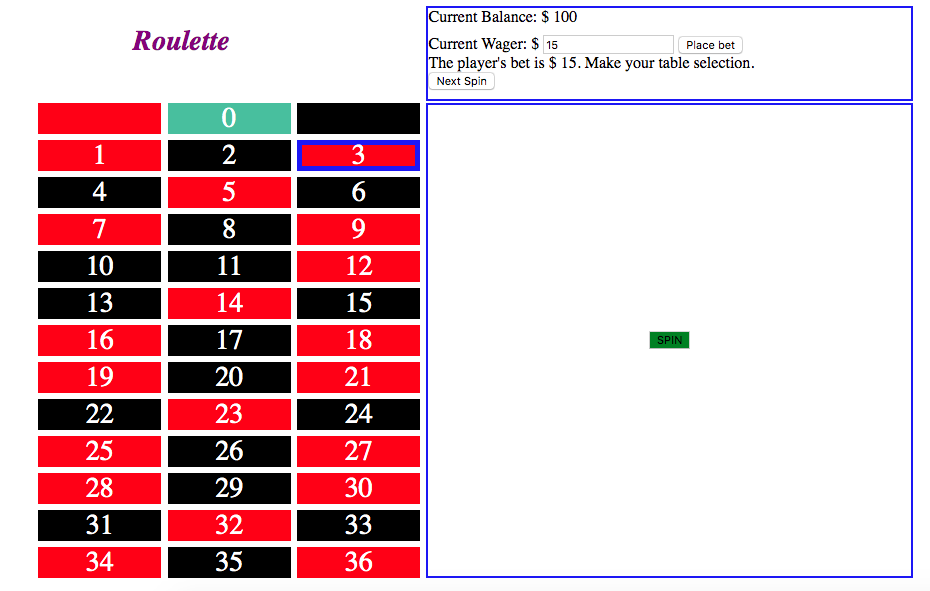
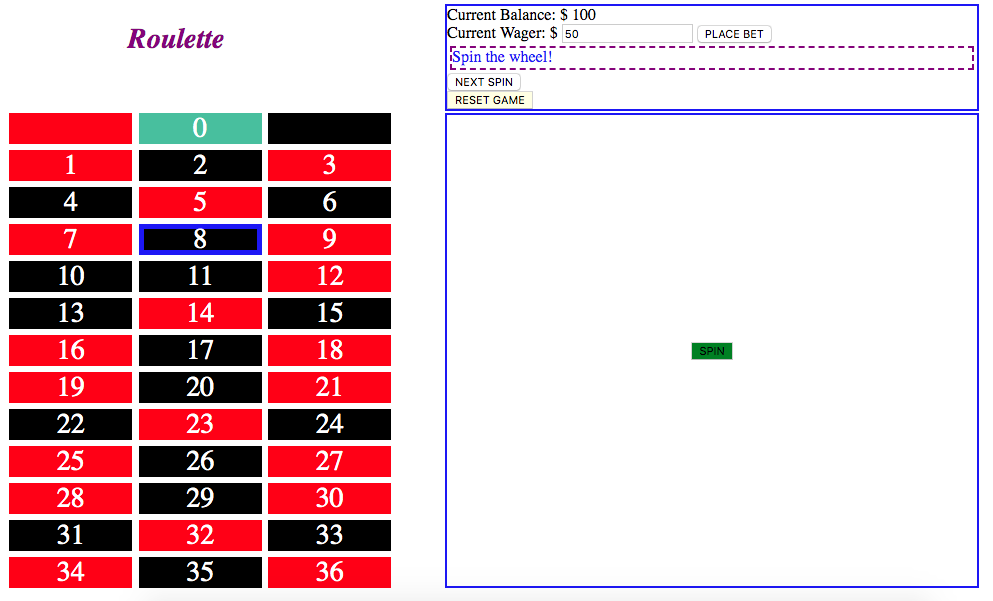
updates screenshots

Changed region(s): [[0.0, 0.0, 0.9978, 1.0], [0.1247, 0.0305, 0.2495, 0.0914], [0.686, 0.5482, 0.7484, 0.6091]]

diff --git a/css/main.css b/css/main.css
@@ -66,6 +66,7 @@ background-color: red;
   align-items: center;
   border: 2px solid blue;
   color: black;
+  height: 475px;
 }
 
 .bank {

diff --git a/README.md b/README.md
@@ -8,35 +8,35 @@ In casino play, there are a variety of betting options with varying payouts base
 
 **_MOTIVATION AND DESIGN_**
 
-As a child, my Aunt Helen had a miniature roulette wheel that I loved to play with. This was my inspiration for creating this game. Here I have built a single number game that does not have minimum or maximum bets. The payout for my game is just the amount of the wager.
+As a child, my Aunt Helen had a miniature roulette wheel that I loved to play with. This was my inspiration for creating this game. Currently the game I have built here accepts single number table selections only and does not have minimum or maximum bets. The payout for my game is just the amount of the wager. Future versions will include a functioning wheel to spin as well as additional betting options and proportional payouts (see Next Steps below).
 
-[Wireframe](https://wireframe.cc/pro/pp/3d912db8b264588)
+[Original wireframe](https://wireframe.cc/pro/pp/3d912db8b264588)
 
-[Pseudocode](https://docs.google.com/document/d/1SJwBhMl_dXjQCciWCenDWi_vRhLC5N65a3xe0IveJaM/edit?usp=sharing)
+[Original pseudocode](https://docs.google.com/document/d/1SJwBhMl_dXjQCciWCenDWi_vRhLC5N65a3xe0IveJaM/edit?usp=sharing)
 
 
 ## **_HOW TO PLAY:_**
 
 [Roulette game](https://bethsmith0623.github.io/Roulette/)
 
-
-![Game page](https://i.imgur.com/Ip8WHov.png)
+The game page features a minimalistic design with a message bar that walks the user through game play.
+![Game page](https://i.imgur.com/OxKwqMd.png)
 
 
 1. Type in the amount you would like to wager in the box.
-![Type in your wager](https://i.imgur.com/OSWulYJ.png)
+![Type in your wager](https://i.imgur.com/6mlSYtW.png)
 
 2. When you click the PLACE BET button a message appears prompting you to make your table selection.
-![Click Place Bet](https://i.imgur.com/wKLwk7B.png)
+![Click Place Bet](https://i.imgur.com/rxBzT47.png)
 
 3. Click on the number you would like to place your wager on. This game is currently accepting single number selections only and the number you choose appears with a blue border.
-![Make selection](https://i.imgur.com/iZBbevW.png)
+![Make selection](https://i.imgur.com/3vGO1ta.png)
 
-4. Click the SPIN button. A number is generated to simulate a wheel spin and that number is displayed above the button. In the bank area your win/lose message appears and the balance is updated. 
-![Spin the 'wheel'](https://i.imgur.com/JuAO8fF.png)
+4. Click the SPIN button. A number is generated to simulate a wheel spin and that number is displayed above the button. In the bank area your win/lose message appears and the balance is updated. To continue play, click the NEXT SPIN button. The wheel and table are cleared for another round.
+![Spin the 'wheel'](https://i.imgur.com/UDDhAL3.png)
 
-5. To continue play, click the NEXT SPIN button. The wheel and table are cleared for another round.
-![Play again](https://i.imgur.com/WQ1W5ke.png)
+5. It you try to place a bet while your bank is at $0, you will be prompted to reset the game. The reset feature is also available at any time during the game but the button only changes color when your game is over.
+![Play again](https://i.imgur.com/IwTbTq2.png)
 
 
 **_TECHNOLOGY USED_**
